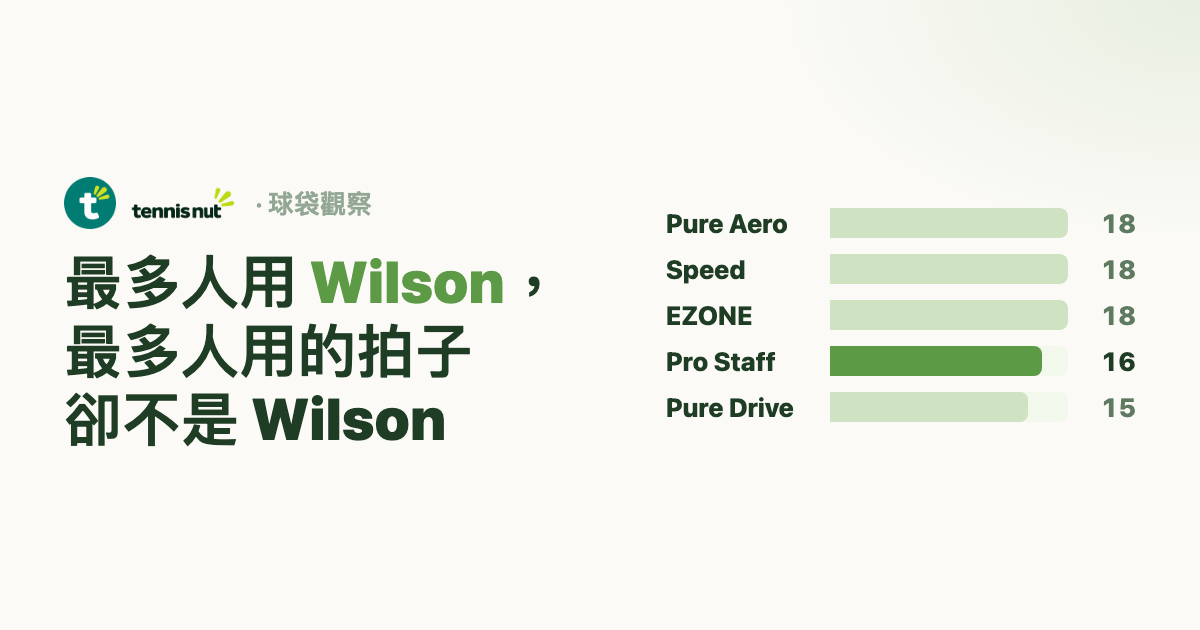
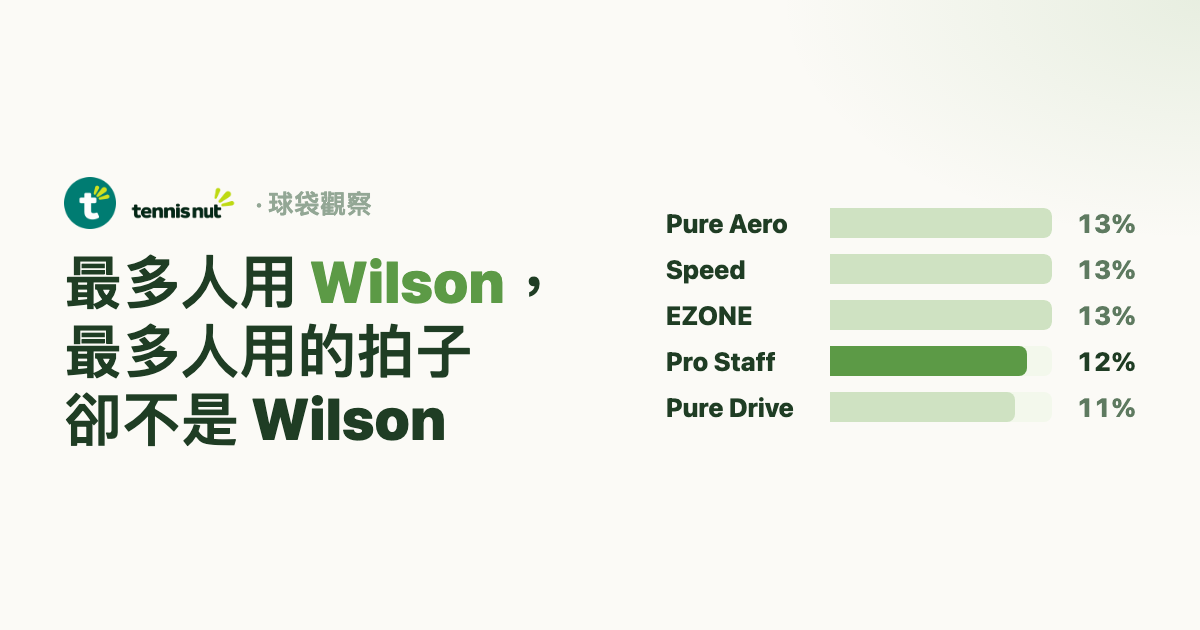
insights: 球袋觀察圖卡改用百分比，頁尾保留樣本人數
Claude-Session: https://claude.ai/code/session_01FhLZvZoNfw4K9PSLRPSWad

Changed region(s): [[0.8325, 0.4825, 0.9558, 0.6635], [0.8633, 0.3317, 0.9558, 0.4524], [0.8942, 0.6333, 0.9558, 0.6635]]

diff --git a/insights/gear-2026-11-cards.html b/insights/gear-2026-11-cards.html
@@ -28,7 +28,7 @@
     .sub { margin-top: 48px; font-size: 32px; line-height: 1.55; color: var(--ink2); font-weight: 600; }
 
     .bars { margin-top: 56px; display: grid; gap: 26px; }
-    .bar { display: grid; grid-template-columns: 250px 1fr 120px; align-items: center; gap: 22px; }
+    .bar { display: grid; grid-template-columns: 250px 1fr 130px; align-items: center; gap: 22px; }
     .bar .k { font-size: 36px; font-weight: 800; white-space: nowrap; }
     .bar .k small { display: block; font-size: 22px; color: var(--ink3); font-weight: 700; margin-top: 2px; }
     .bar .t { height: 46px; background: var(--tint); border-radius: 0 8px 8px 0; overflow: hidden; }
@@ -59,7 +59,7 @@
     .og h1 { font-size: 58px; margin-top: 18px; }
     .og .kicker { margin-top: 36px; font-size: 26px; }
     .og .bars { margin-top: 0; gap: 16px; }
-    .og .bar { grid-template-columns: 150px 1fr 54px; gap: 14px; }
+    .og .bar { grid-template-columns: 150px 1fr 70px; gap: 14px; }
     .og .bar .k { font-size: 26px; }
     .og .bar .t { height: 30px; }
     .og .bar .v { font-size: 26px; }
@@ -72,14 +72,14 @@
     <div class="kicker">球拍・使用人數最多的系列</div>
     <h1>最多人用 <em>Wilson</em>，<br />最多人用的拍子<br />卻不是 Wilson</h1>
     <div class="bars">
-      <div class="bar"><span class="k">Pure Aero<small>Babolat</small></span><span class="t"><span class="f" style="width:100%"></span></span><span class="v">18</span></div>
-      <div class="bar"><span class="k">Speed<small>HEAD</small></span><span class="t"><span class="f" style="width:100%"></span></span><span class="v">18</span></div>
-      <div class="bar"><span class="k">EZONE<small>Yonex</small></span><span class="t"><span class="f" style="width:100%"></span></span><span class="v">18</span></div>
-      <div class="bar on"><span class="k">Pro Staff<small>Wilson</small></span><span class="t"><span class="f" style="width:88.9%"></span></span><span class="v">16</span></div>
-      <div class="bar"><span class="k">Pure Drive<small>Babolat</small></span><span class="t"><span class="f" style="width:83.3%"></span></span><span class="v">15</span></div>
+      <div class="bar"><span class="k">Pure Aero<small>Babolat</small></span><span class="t"><span class="f" style="width:100%"></span></span><span class="v">13%</span></div>
+      <div class="bar"><span class="k">Speed<small>HEAD</small></span><span class="t"><span class="f" style="width:100%"></span></span><span class="v">13%</span></div>
+      <div class="bar"><span class="k">EZONE<small>Yonex</small></span><span class="t"><span class="f" style="width:100%"></span></span><span class="v">13%</span></div>
+      <div class="bar on"><span class="k">Pro Staff<small>Wilson</small></span><span class="t"><span class="f" style="width:88.9%"></span></span><span class="v">12%</span></div>
+      <div class="bar"><span class="k">Pure Drive<small>Babolat</small></span><span class="t"><span class="f" style="width:83.3%"></span></span><span class="v">11%</span></div>
     </div>
     <div class="foot">
-      <div class="src">136 位 Tennis Nut 球友球袋裡的球拍，以人數計<br />2026.11.07</div>
+      <div class="src">百分比＝136 位 Tennis Nut 球友中，球袋裡有它的比例<br />2026.11.07</div>
       <div class="pg">1 / 3</div>
     </div>
   </section>
@@ -90,13 +90,13 @@
     <div class="kicker">因為 Wilson 的人散開了</div>
     <h1>品牌很接近，<br />分法完全不同</h1>
     <div class="grid4">
-      <div class="p hl"><div class="b">Wilson</div><div class="n">51 人用</div><div class="big">8<small>個系列</small></div><div class="top">Pro Staff 16、Blade 14、<br />RF 9、Defyer 6……</div></div>
-      <div class="p"><div class="b">Babolat</div><div class="n">35 人用</div><div class="big">3<small>個系列</small></div><div class="top"><b>Pure Aero 18</b>、<br />Pure Drive 15</div></div>
-      <div class="p"><div class="b">HEAD</div><div class="n">35 人用</div><div class="big">7<small>個系列</small></div><div class="top">一半的人用 <b>Speed 18</b></div></div>
-      <div class="p"><div class="b">Yonex</div><div class="n">33 人用</div><div class="big">5<small>個系列</small></div><div class="top"><b>EZONE 18</b>、VCORE 13</div></div>
+      <div class="p hl"><div class="b">Wilson</div><div class="n">38% 的人用</div><div class="big">8<small>個系列</small></div><div class="top">Pro Staff 12%、Blade 10%、<br />RF 7%、Defyer 4%……</div></div>
+      <div class="p"><div class="b">Babolat</div><div class="n">26% 的人用</div><div class="big">3<small>個系列</small></div><div class="top"><b>Pure Aero 13%</b>、<br />Pure Drive 11%</div></div>
+      <div class="p"><div class="b">HEAD</div><div class="n">26% 的人用</div><div class="big">7<small>個系列</small></div><div class="top">一半的人用 <b>Speed</b></div></div>
+      <div class="p"><div class="b">Yonex</div><div class="n">24% 的人用</div><div class="big">5<small>個系列</small></div><div class="top"><b>EZONE 13%</b>、VCORE 10%</div></div>
     </div>
     <div class="foot">
-      <div class="src">同一人有兩支同系列只算一次<br />2026.11.07</div>
+      <div class="src">136 位 Tennis Nut 球友球袋裡的球拍<br />2026.11.07</div>
       <div class="pg">2 / 3</div>
     </div>
   </section>
@@ -107,15 +107,15 @@
     <div class="kicker">球鞋・使用人數</div>
     <h1><em>ASICS</em> 一家，<br />差不多等於後面三家</h1>
     <div class="bars">
-      <div class="bar on"><span class="k">ASICS</span><span class="t"><span class="f" style="width:100%"></span></span><span class="v">29</span></div>
-      <div class="bar"><span class="k">adidas</span><span class="t"><span class="f" style="width:31%"></span></span><span class="v">9</span></div>
-      <div class="bar"><span class="k">K-Swiss</span><span class="t"><span class="f" style="width:31%"></span></span><span class="v">9</span></div>
-      <div class="bar"><span class="k">Nike</span><span class="t"><span class="f" style="width:31%"></span></span><span class="v">9</span></div>
-      <div class="bar"><span class="k">On</span><span class="t"><span class="f" style="width:24.1%"></span></span><span class="v">7</span></div>
+      <div class="bar on"><span class="k">ASICS</span><span class="t"><span class="f" style="width:100%"></span></span><span class="v">39%</span></div>
+      <div class="bar"><span class="k">adidas</span><span class="t"><span class="f" style="width:31%"></span></span><span class="v">12%</span></div>
+      <div class="bar"><span class="k">K-Swiss</span><span class="t"><span class="f" style="width:31%"></span></span><span class="v">12%</span></div>
+      <div class="bar"><span class="k">Nike</span><span class="t"><span class="f" style="width:31%"></span></span><span class="v">12%</span></div>
+      <div class="bar"><span class="k">On</span><span class="t"><span class="f" style="width:24.1%"></span></span><span class="v">9%</span></div>
     </div>
-    <p class="sub">ASICS 裡又分兩派：Gel-Resolution 11、Court FF 10。<br />On 的 7 位，全部穿 The Roger。</p>
+    <p class="sub">ASICS 裡又分兩派：Gel-Resolution 15%、Court FF 14%。<br />穿 On 的人，全部穿 The Roger。</p>
     <div class="foot">
-      <div class="src">74 位 Tennis Nut 球友球袋裡的球鞋，以人數計<br />2026.11.07</div>
+      <div class="src">百分比＝74 位 Tennis Nut 球友中，球袋裡有它的比例<br />2026.11.07</div>
       <div class="pg">3 / 3</div>
     </div>
   </section>
@@ -127,11 +127,11 @@
       <h1>最多人用 <em>Wilson</em>，<br />最多人用的拍子<br />卻不是 Wilson</h1>
     </div>
     <div class="bars">
-      <div class="bar"><span class="k">Pure Aero</span><span class="t"><span class="f" style="width:100%"></span></span><span class="v">18</span></div>
-      <div class="bar"><span class="k">Speed</span><span class="t"><span class="f" style="width:100%"></span></span><span class="v">18</span></div>
-      <div class="bar"><span class="k">EZONE</span><span class="t"><span class="f" style="width:100%"></span></span><span class="v">18</span></div>
-      <div class="bar on"><span class="k">Pro Staff</span><span class="t"><span class="f" style="width:88.9%"></span></span><span class="v">16</span></div>
-      <div class="bar"><span class="k">Pure Drive</span><span class="t"><span class="f" style="width:83.3%"></span></span><span class="v">15</span></div>
+      <div class="bar"><span class="k">Pure Aero</span><span class="t"><span class="f" style="width:100%"></span></span><span class="v">13%</span></div>
+      <div class="bar"><span class="k">Speed</span><span class="t"><span class="f" style="width:100%"></span></span><span class="v">13%</span></div>
+      <div class="bar"><span class="k">EZONE</span><span class="t"><span class="f" style="width:100%"></span></span><span class="v">13%</span></div>
+      <div class="bar on"><span class="k">Pro Staff</span><span class="t"><span class="f" style="width:88.9%"></span></span><span class="v">12%</span></div>
+      <div class="bar"><span class="k">Pure Drive</span><span class="t"><span class="f" style="width:83.3%"></span></span><span class="v">11%</span></div>
     </div>
   </section>
 
